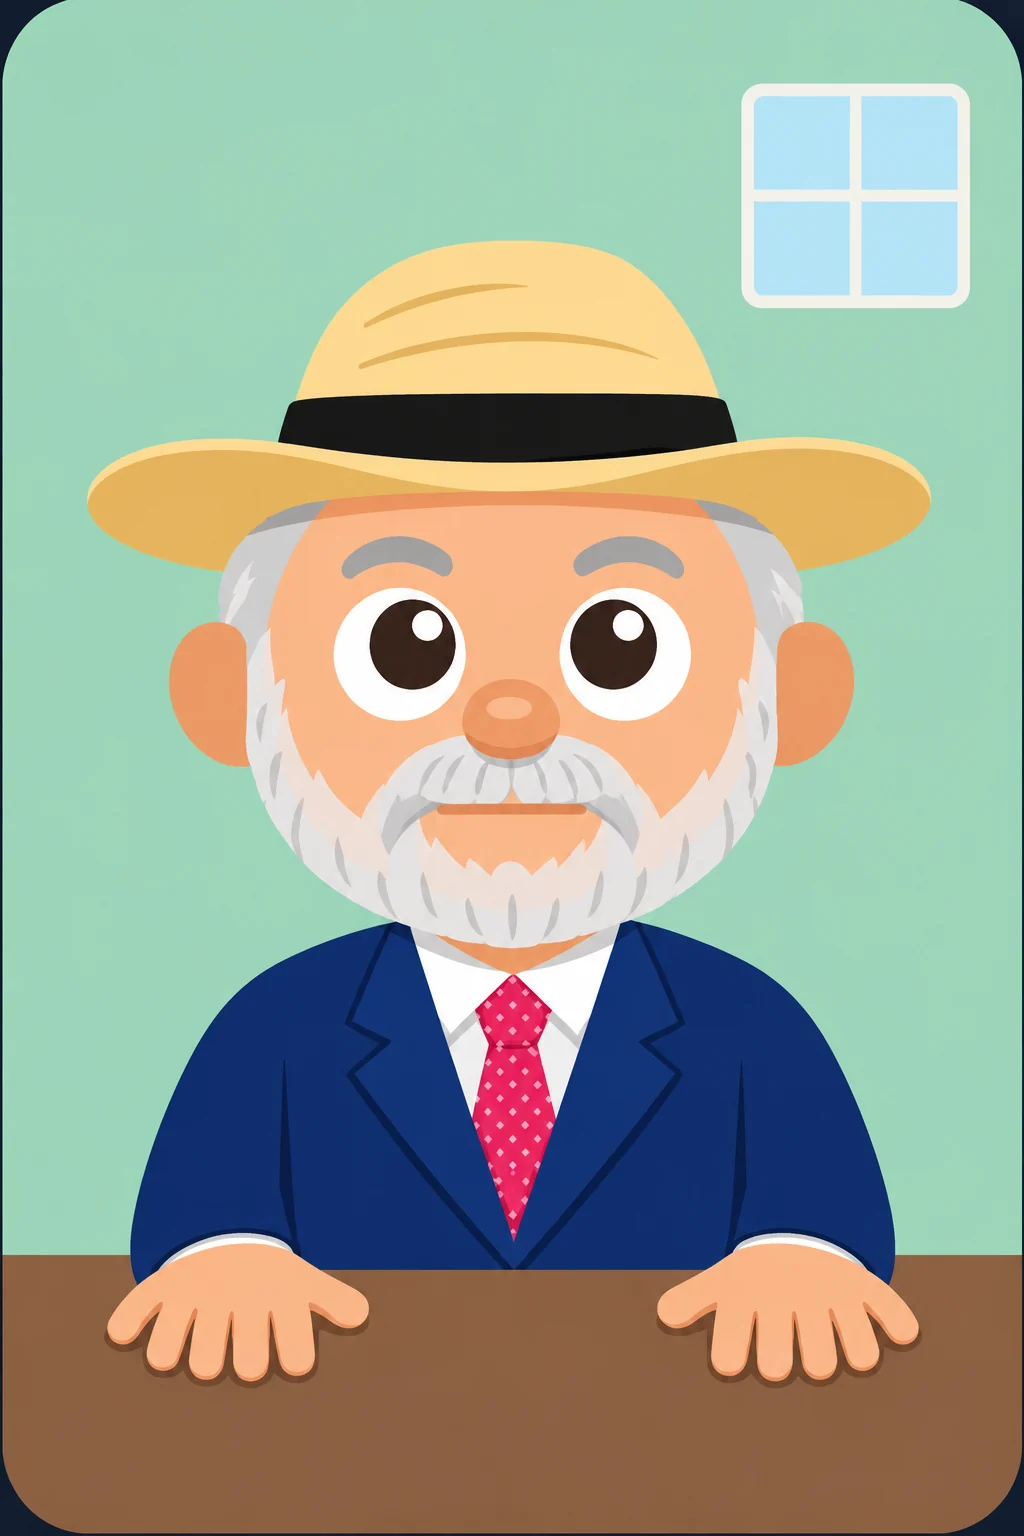
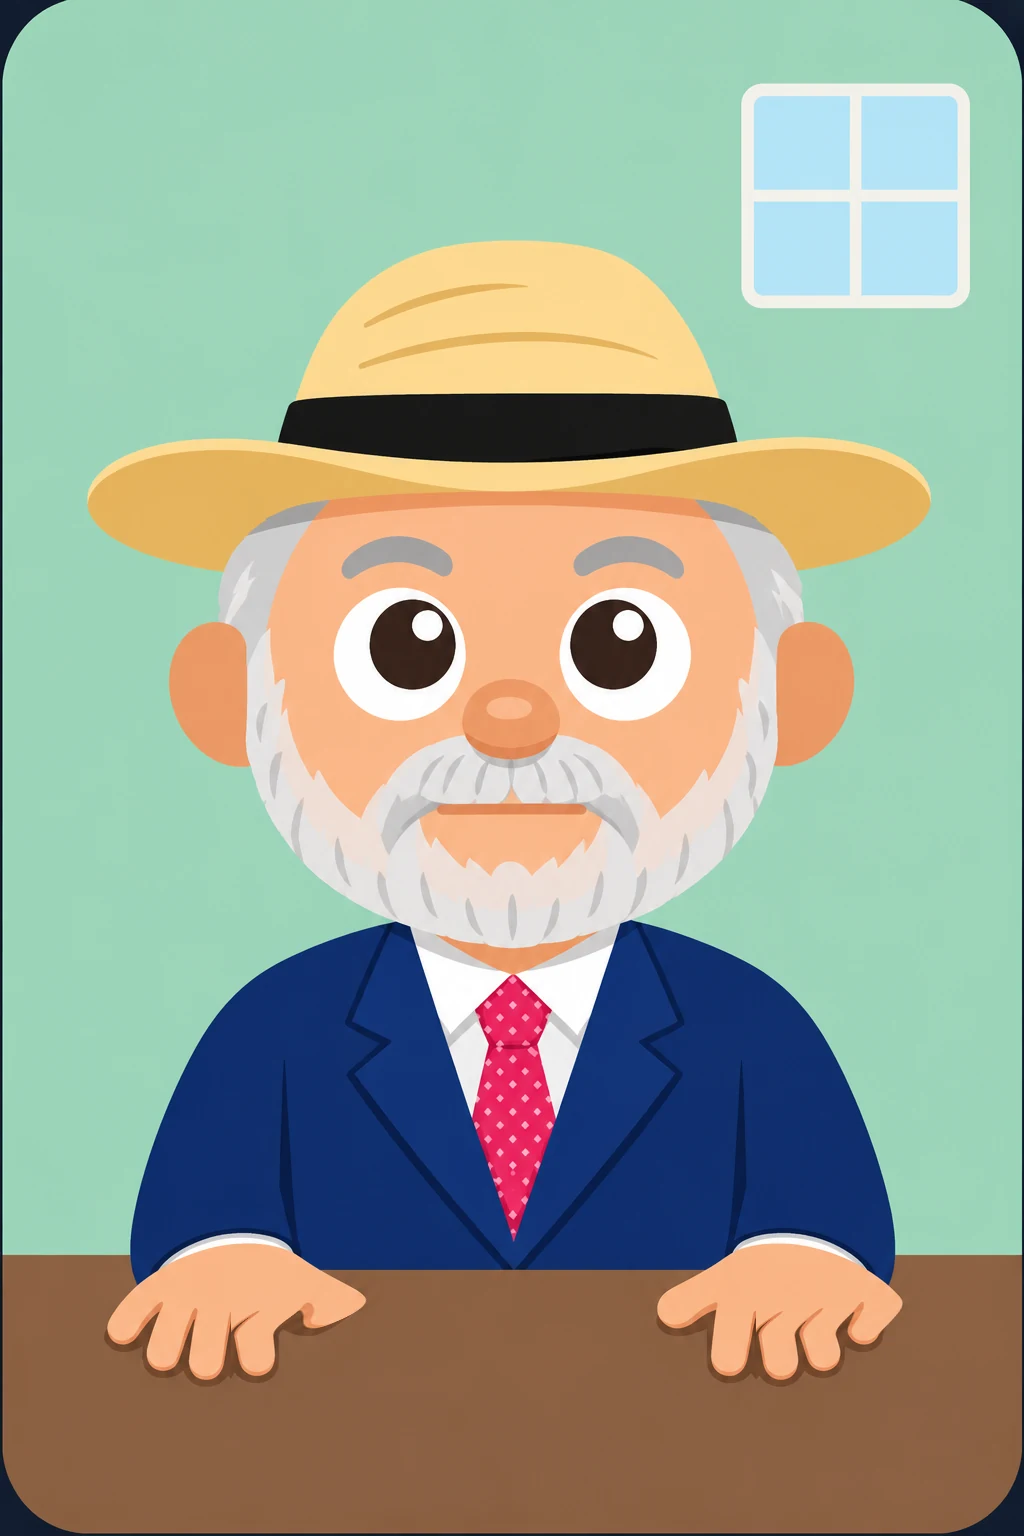
Mãos com 5 dedos e humor visual: feliz com Love, machucado com Hate
Claude-Session: https://claude.ai/code/session_01AESwjpmQUrDB2d6oZhQWKQ

Changed region(s): [[0.7188, 0.8438, 0.9062, 0.9062], [0.2188, 0.8438, 0.375, 0.9062]]

diff --git a/public/index.html b/public/index.html
@@ -31,6 +31,52 @@
         <div class="char">
           <img class="art" src="img/danilao.webp" alt="Danilão, de terno azul e chapéu de palha" draggable="false">
           <svg class="fxlayer" viewBox="0 0 1024 1536" aria-hidden="true">
+            <defs><filter id="soft" x="-30%" y="-30%" width="160%" height="160%"><feGaussianBlur stdDeviation="9"/></filter></defs>
+
+            <!-- FELIZ (Love à frente): bochechas, sorriso, olhos fechados de alegria -->
+            <g class="mood lg1">
+              <circle cx="345" cy="790" r="46" fill="#ff6f8e" opacity=".38" filter="url(#soft)"/>
+              <circle cx="675" cy="790" r="46" fill="#ff6f8e" opacity=".38" filter="url(#soft)"/>
+            </g>
+            <g class="mood lg2">
+              <circle cx="345" cy="790" r="52" fill="#ff5a80" opacity=".3" filter="url(#soft)"/>
+              <circle cx="675" cy="790" r="52" fill="#ff5a80" opacity=".3" filter="url(#soft)"/>
+              <path d="M440 812 Q510 880 580 812" stroke="#7a2020" stroke-width="12" fill="none" stroke-linecap="round"/>
+            </g>
+            <g class="mood lg3">
+              <path d="M425 800 Q510 930 595 800 Q510 826 425 800Z" fill="#7a1f1f" stroke="#5a1212" stroke-width="6" stroke-linejoin="round"/>
+              <path d="M450 806 Q510 828 570 806 L564 826 Q510 844 456 826Z" fill="#fff"/>
+              <ellipse cx="400" cy="654" rx="72" ry="70" fill="#fbb789"/>
+              <ellipse cx="625" cy="654" rx="72" ry="70" fill="#fbb789"/>
+              <path d="M335 674 Q400 596 465 674" stroke="#3a2418" stroke-width="16" fill="none" stroke-linecap="round"/>
+              <path d="M560 674 Q625 596 690 674" stroke="#3a2418" stroke-width="16" fill="none" stroke-linecap="round"/>
+              <g class="twinkle" fill="#fff6a8">
+                <path transform="translate(300 520) scale(1.6)" d="M0-14 L3.500-3.500 L14 0 L3.500 3.500 L0 14 L-3.500 3.500 L-14 0 L-3.500-3.500Z"/>
+                <path transform="translate(720 540) scale(1.3)" d="M0-14 L3.500-3.500 L14 0 L3.500 3.500 L0 14 L-3.500 3.500 L-14 0 L-3.500-3.500Z"/>
+                <path transform="translate(255 800) scale(1.1)" d="M0-14 L3.500-3.500 L14 0 L3.500 3.500 L0 14 L-3.500 3.500 L-14 0 L-3.500-3.500Z"/>
+                <path transform="translate(775 820) scale(1.4)" d="M0-14 L3.500-3.500 L14 0 L3.500 3.500 L0 14 L-3.500 3.500 L-14 0 L-3.500-3.500Z"/>
+              </g>
+            </g>
+
+            <!-- MACHUCADO (Hate à frente): roxos, band-aid, olhos roxos, curativo no nariz -->
+            <g class="mood hg1">
+              <ellipse cx="335" cy="815" rx="44" ry="30" fill="#6b3a9e" opacity=".6" filter="url(#soft)"/>
+              <path d="M690 780 L735 815 M700 765 L748 798" stroke="#c0392b" stroke-width="7" stroke-linecap="round" opacity=".85"/>
+            </g>
+            <g class="mood hg2">
+              <ellipse cx="625" cy="668" rx="82" ry="72" fill="#4a1d78" opacity=".6" filter="url(#soft)" style="mix-blend-mode:multiply"/>
+              <g transform="rotate(-24 360 770)"><rect x="312" y="752" width="96" height="36" rx="10" fill="#f2cf9c" stroke="#d9a96a" stroke-width="3"/><rect x="342" y="752" width="36" height="36" fill="#e7b97a" opacity=".6"/></g>
+              <path d="M455 870 Q510 835 565 870" stroke="#7a2e2e" stroke-width="12" fill="none" stroke-linecap="round" opacity="0"/>
+              <ellipse cx="510" cy="905" rx="46" ry="26" fill="#5b3294" opacity=".5" filter="url(#soft)"/>
+            </g>
+            <g class="mood hg3">
+              <ellipse cx="400" cy="668" rx="82" ry="72" fill="#4a1d78" opacity=".6" filter="url(#soft)" style="mix-blend-mode:multiply"/>
+              <ellipse cx="510" cy="740" rx="270" ry="215" fill="#6a2aa0" opacity=".2" style="mix-blend-mode:multiply"/>
+              <g transform="rotate(-12 510 722)"><rect x="440" y="700" width="140" height="40" rx="10" fill="#f6f2ea" stroke="#d6cfc2" stroke-width="3"/></g>
+              <g transform="rotate(48 510 722)"><rect x="440" y="704" width="130" height="34" rx="10" fill="#f6f2ea" stroke="#d6cfc2" stroke-width="3"/></g>
+              <path d="M675 660 l22 -26 M700 664 l22 -26" stroke="#c0392b" stroke-width="7" stroke-linecap="round"/>
+              <path d="M445 862 Q510 805 575 862" stroke="#5a1212" stroke-width="12" fill="none" stroke-linecap="round"/>
+            </g>
             <ellipse class="hotface" cx="510" cy="720" rx="250" ry="215" fill="#ff2a1a"/>
             <g class="cream">
               <path d="M270 590 Q510 500 750 590 Q790 760 720 860 Q700 940 650 900 Q620 980 580 900 Q540 990 500 900 Q460 960 420 890 Q380 930 350 860 Q250 770 270 590Z" fill="#fff8ee"/>

diff --git a/public/css/style.css b/public/css/style.css
@@ -311,3 +311,12 @@ button:focus-visible, input:focus-visible { outline: 3px solid #fff; outline-off
 @keyframes sparkle {
   0% { transform: scale(0) rotate(0); opacity: 0; } 40% { transform: scale(1.2) rotate(90deg); opacity: 1; } 100% { transform: scale(0) rotate(180deg); opacity: 0; }
 }
+
+/* humor do Danilão: quanto mais Love, mais feliz; quanto mais Hate, mais machucado */
+#cat .mood { opacity: 0; transition: opacity .45s; }
+#cat.l1 .lg1, #cat.l2 .lg1, #cat.l3 .lg1, #cat.l2 .lg2, #cat.l3 .lg2, #cat.l3 .lg3,
+#cat.h1 .hg1, #cat.h2 .hg1, #cat.h3 .hg1, #cat.h2 .hg2, #cat.h3 .hg2, #cat.h3 .hg3 { opacity: 1; }
+#cat.l3 .lg2 path { opacity: 0; }
+#cat .twinkle path { transform-box: fill-box; transform-origin: center; animation: twinkle 1.6s ease-in-out infinite; }
+#cat .twinkle path:nth-child(2) { animation-delay: .4s; } #cat .twinkle path:nth-child(3) { animation-delay: .8s; } #cat .twinkle path:nth-child(4) { animation-delay: 1.2s; }
+@keyframes twinkle { 0%,100% { transform: scale(.4); opacity: .3; } 50% { transform: scale(1); opacity: 1; } }

diff --git a/public/js/app.js b/public/js/app.js
@@ -131,6 +131,13 @@
   }
 
   /* cabo de guerra: azul à esquerda, vermelho à direita; a bandeira fica na fronteira entre os dois */
+  /* humor: net = love - hate. Quanto mais love, mais feliz; quanto mais hate, mais machucado */
+  function moodLevel(n) { n = Math.abs(n); return n >= 70 ? 3 : (n >= 40 ? 2 : (n >= 15 ? 1 : 0)); }
+  function applyMood() {
+    var net = s.good - s.bad, lv = moodLevel(net);
+    ['l1', 'l2', 'l3', 'h1', 'h2', 'h3'].forEach(function (k) { cat.classList.remove(k); });
+    for (var i = 1; i <= lv; i++) cat.classList.add((net > 0 ? 'l' : 'h') + i);
+  }
   function renderTug() {
     var net = Math.max(-WIN_AT, Math.min(WIN_AT, s.good - s.bad));
     var pos = 50 + net / 2;
@@ -157,6 +164,7 @@
   function render() {
     $('#credits').textContent = s.credits;
     renderTug();
+    applyMood();
     if (!busy) setMouth('smile');
     save();
   }

diff --git a/CLAUDE.md b/CLAUDE.md
@@ -1,7 +1,7 @@
 # Danilão: Love vs Hate
 
 Jogo web de brincadeira, publicado como **link** (não é app). Um personagem de desenho, o **Danilão**
-(homem de terno azul e chapéu de palha; arte em `public/img/danilao.webp`, feita pelo dono do projeto),
+(homem de terno azul e chapéu de palha; arte em `public/img/danilao.webp`, feita pelo dono do projeto, com 5 dedos em cada mão),
 reage aos **itens** que o jogador usa, gastando **créditos**. Créditos são comprados com dinheiro real via **Stripe Checkout** (cartão e Pix).
 
 ## Mecânica
@@ -11,6 +11,9 @@ reage aos **itens** que o jogador usa, gastando **créditos**. Créditos são co
 - Itens **Hate (vermelho)**, todos em tom de comédia: Cofrinho 5, Queda da bolsa 15, Dedinho 30 (truque de mágica).
 - **Cabo de guerra** é o placar: **1 crédito gasto = 1 ponto** para o lado do item; toques grátis somam 1.
   Ao chegar a diferença de 100 aparece "O Love venceu!" / "O Hate venceu!" e zera.
+- **Humor visual:** com net = love - hate, a partir de 15, 40 e 70 pontos de diferença o Danilão fica mais feliz
+  (bochechas, sorriso, olhos fechados de alegria) ou mais machucado (roxos, band-aid, olhos roxos, curativo no nariz).
+  São camadas SVG em `public/index.html` (classes `lg1..lg3`, `hg1..hg3`) ligadas por `applyMood()` em `app.js`.
 - Sons: `SOUNDS` em `public/js/app.js` aponta um arquivo por reação (veja
   `public/sounds/LEIA-ME.txt`); sem arquivo, usa o som sintetizado.
 
